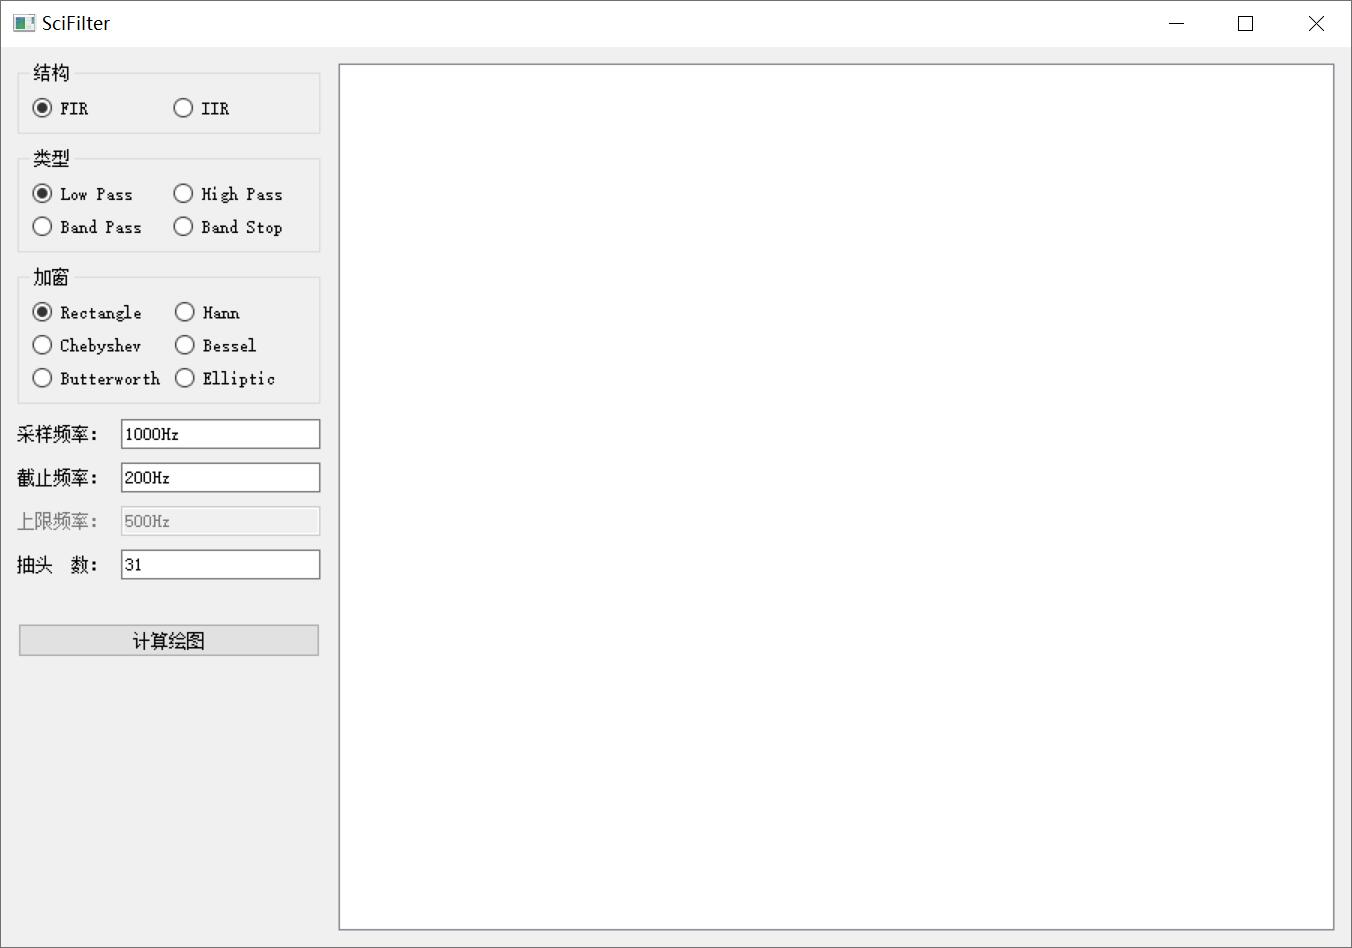
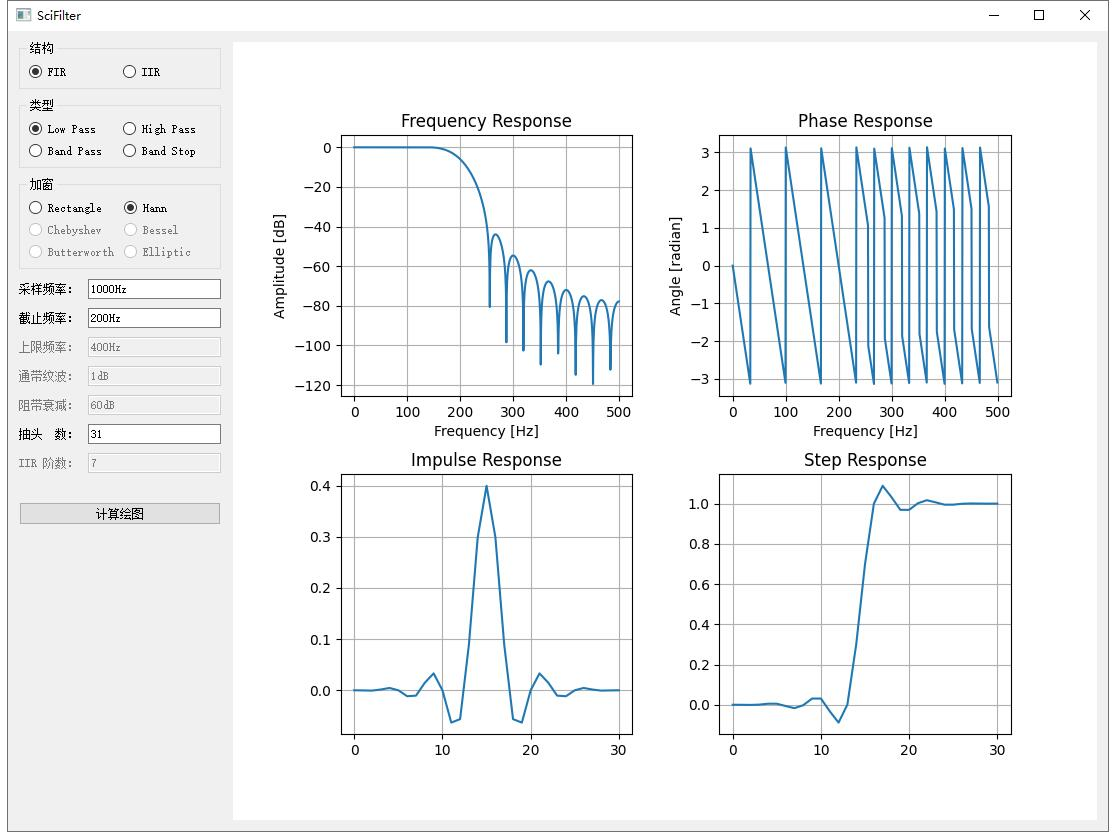
SciFilter add other figure and IIR filter

diff --git a/SciFilter/SciFilter.py b/SciFilter/SciFilter.py
@@ -19,6 +19,8 @@ class SciFilter(QWidget):
         uic.loadUi('SciFilter.ui', self)
 
         self.chkLP.setChecked(True)
+        self.chkFIR.setChecked(True)
+        self.chkWrect.setChecked(True)
 
         self.figure = Figure()
         self.canvas = FigureCanvasQTAgg(self.figure)
@@ -30,6 +32,7 @@ class SciFilter(QWidget):
         self.axesPR = self.figure.add_subplot(222)  # Phase Response
         self.axesIR = self.figure.add_subplot(223)  # Impulse Response
         self.axesSR = self.figure.add_subplot(224)  # Step Response
+        self.figure.subplots_adjust(wspace=0.3, hspace=0.3)
 
     @pyqtSlot(QtWidgets.QAbstractButton, bool)
     def on_bgrpArch_buttonToggled(self, button, checked):
@@ -38,10 +41,32 @@ class SciFilter(QWidget):
         if self.bgrpArch.checkedButton() == self.chkFIR:
             self.lblNtap.setEnabled(True)
             self.linNtap.setEnabled(True)
+            self.lblOrder.setEnabled(False)
+            self.linOrder.setEnabled(False)
+
+            self.chkWrect.setEnabled(True)
+            self.chkWhann.setEnabled(True)
+            self.chkWcheb.setEnabled(False)
+            self.chkWbess.setEnabled(False)
+            self.chkWbutt.setEnabled(False)
+            self.chkWelli.setEnabled(False)
+
+            self.chkWrect.setChecked(True)
         
         else:
             self.lblNtap.setEnabled(False)
             self.linNtap.setEnabled(False)
+            self.lblOrder.setEnabled(True)
+            self.linOrder.setEnabled(True)
+
+            self.chkWrect.setEnabled(False)
+            self.chkWhann.setEnabled(False)
+            self.chkWcheb.setEnabled(True)
+            self.chkWbess.setEnabled(True)
+            self.chkWbutt.setEnabled(True)
+            self.chkWelli.setEnabled(True)
+
+            self.chkWcheb.setChecked(True)
     
     @pyqtSlot(QtWidgets.QAbstractButton, bool)
     def on_bgrpType_buttonToggled(self, button, checked):
@@ -61,16 +86,37 @@ class SciFilter(QWidget):
     def on_bgrpWin_buttonToggled(self, button, checked):
         if not checked: return
 
-        model = self.bgrpWin.checkedButton().text()
+        if self.bgrpWin.checkedButton() in (self.chkWelli, ):
+            self.lblApass.setEnabled(True)
+            self.linApass.setEnabled(True)
 
-        print(model)
+        else:
+            self.lblApass.setEnabled(False)
+            self.linApass.setEnabled(False)
+
+        if self.bgrpWin.checkedButton() in (self.chkWelli, self.chkWcheb):
+            self.lblAstop.setEnabled(True)
+            self.linAstop.setEnabled(True)
+
+        else:
+            self.lblAstop.setEnabled(False)
+            self.linAstop.setEnabled(False)
 
     @pyqtSlot()
     def on_btnCalc_clicked(self):
-        fSamp = int(self.linFsamp.text()[:-2])
-        fStop = int(self.linFstop.text()[:-2])
-        fHlim = int(self.linFhlim.text()[:-2])
-        ntaps = int(self.linNtap.text())
+        try:
+            fSamp = int(self.linFsamp.text()[:-2])
+            fStop = int(self.linFstop.text()[:-2])
+            fHlim = int(self.linFhlim.text()[:-2])
+            nTaps = int(self.linNtap.text())
+            nOrder= int(self.linOrder.text())
+
+            Aripple = int(self.linApass.text()[:-2])
+            Aattenuation = int(self.linAstop.text()[:-2])
+
+        except Exception as e:
+            print(e)
+            return
 
         filter = self.bgrpType.checkedButton().text().lower().replace(' ', '')
 
@@ -78,32 +124,53 @@ class SciFilter(QWidget):
 
         window = {
             'Hann':        'hann',
-            'Bessel':      '',
-            'Elliptic':    '',
+            'Bessel':      'bessel',
+            'Elliptic':    'ellip',
             'Rectangle':   'boxcar',
-            'Chebyshev':   'chebwin',
-            'Butterworth': ''
+            'Chebyshev':   'cheby2',
+            'Butterworth': 'butter'
         }[self.bgrpWin.checkedButton().text()]
 
-        if self.bgrpArch.checkedButton() == self.chkFIR:
-            try:
-                b = signal.firwin(ntaps, cutoff, fs=fSamp, window=window, pass_zero=filter)
+        try:
+            if self.bgrpArch.checkedButton() == self.chkFIR:
+                b = signal.firwin(nTaps, cutoff, fs=fSamp, pass_zero=filter, window=window)
 
-                w, h = signal.freqz(b, worN=1000)
+                w, h = signal.freqz(b, worN=1024)
 
-                self.axesFR.clear()
-                self.axesFR.set_title("频率响应")
-                self.axesFR.set_xlabel('Frequency (Hz)')
-                self.axesFR.plot((w/np.pi)*(fSamp/2), 20*np.log10(np.abs(h)), linewidth=2)
-                self.axesFR.grid(True)
+            else:
+                b, a = signal.iirfilter(nOrder, cutoff, fs=fSamp, btype=filter, ftype=window, rp=Aripple, rs=Aattenuation)
+                
+                w, h = signal.freqz(b, a, worN=1024)
 
-                self.canvas.draw()
+        except Exception as e:
+            print(e)
+            return
 
-            except Exception as e:
-                print(e)
+        self.axesFR.clear()
+        self.axesFR.set_title('Frequency Response')
+        self.axesFR.set_xlabel('Frequency [Hz]')
+        self.axesFR.set_ylabel('Amplitude [dB]')
+        self.axesFR.plot((w/np.pi)*(fSamp/2), 20*np.log10(np.abs(h)))
+        self.axesFR.grid(True)
 
-        else:
-            pass
+        self.axesPR.clear()
+        self.axesPR.set_title('Phase Response')
+        self.axesPR.set_xlabel('Frequency [Hz]')
+        self.axesPR.set_ylabel('Angle [radian]')
+        self.axesPR.plot((w/np.pi)*(fSamp/2), np.angle(h))
+        self.axesPR.grid(True)
+
+        self.axesIR.clear()
+        self.axesIR.set_title('Impulse Response')
+        self.axesIR.plot(b)
+        self.axesIR.grid(True)
+
+        self.axesSR.clear()
+        self.axesSR.set_title('Step Response')
+        self.axesSR.plot(np.cumsum(b))  # 阶跃响应是冲激响应的积分
+        self.axesSR.grid(True)
+
+        self.canvas.draw()
 
 
 if __name__ == "__main__":
